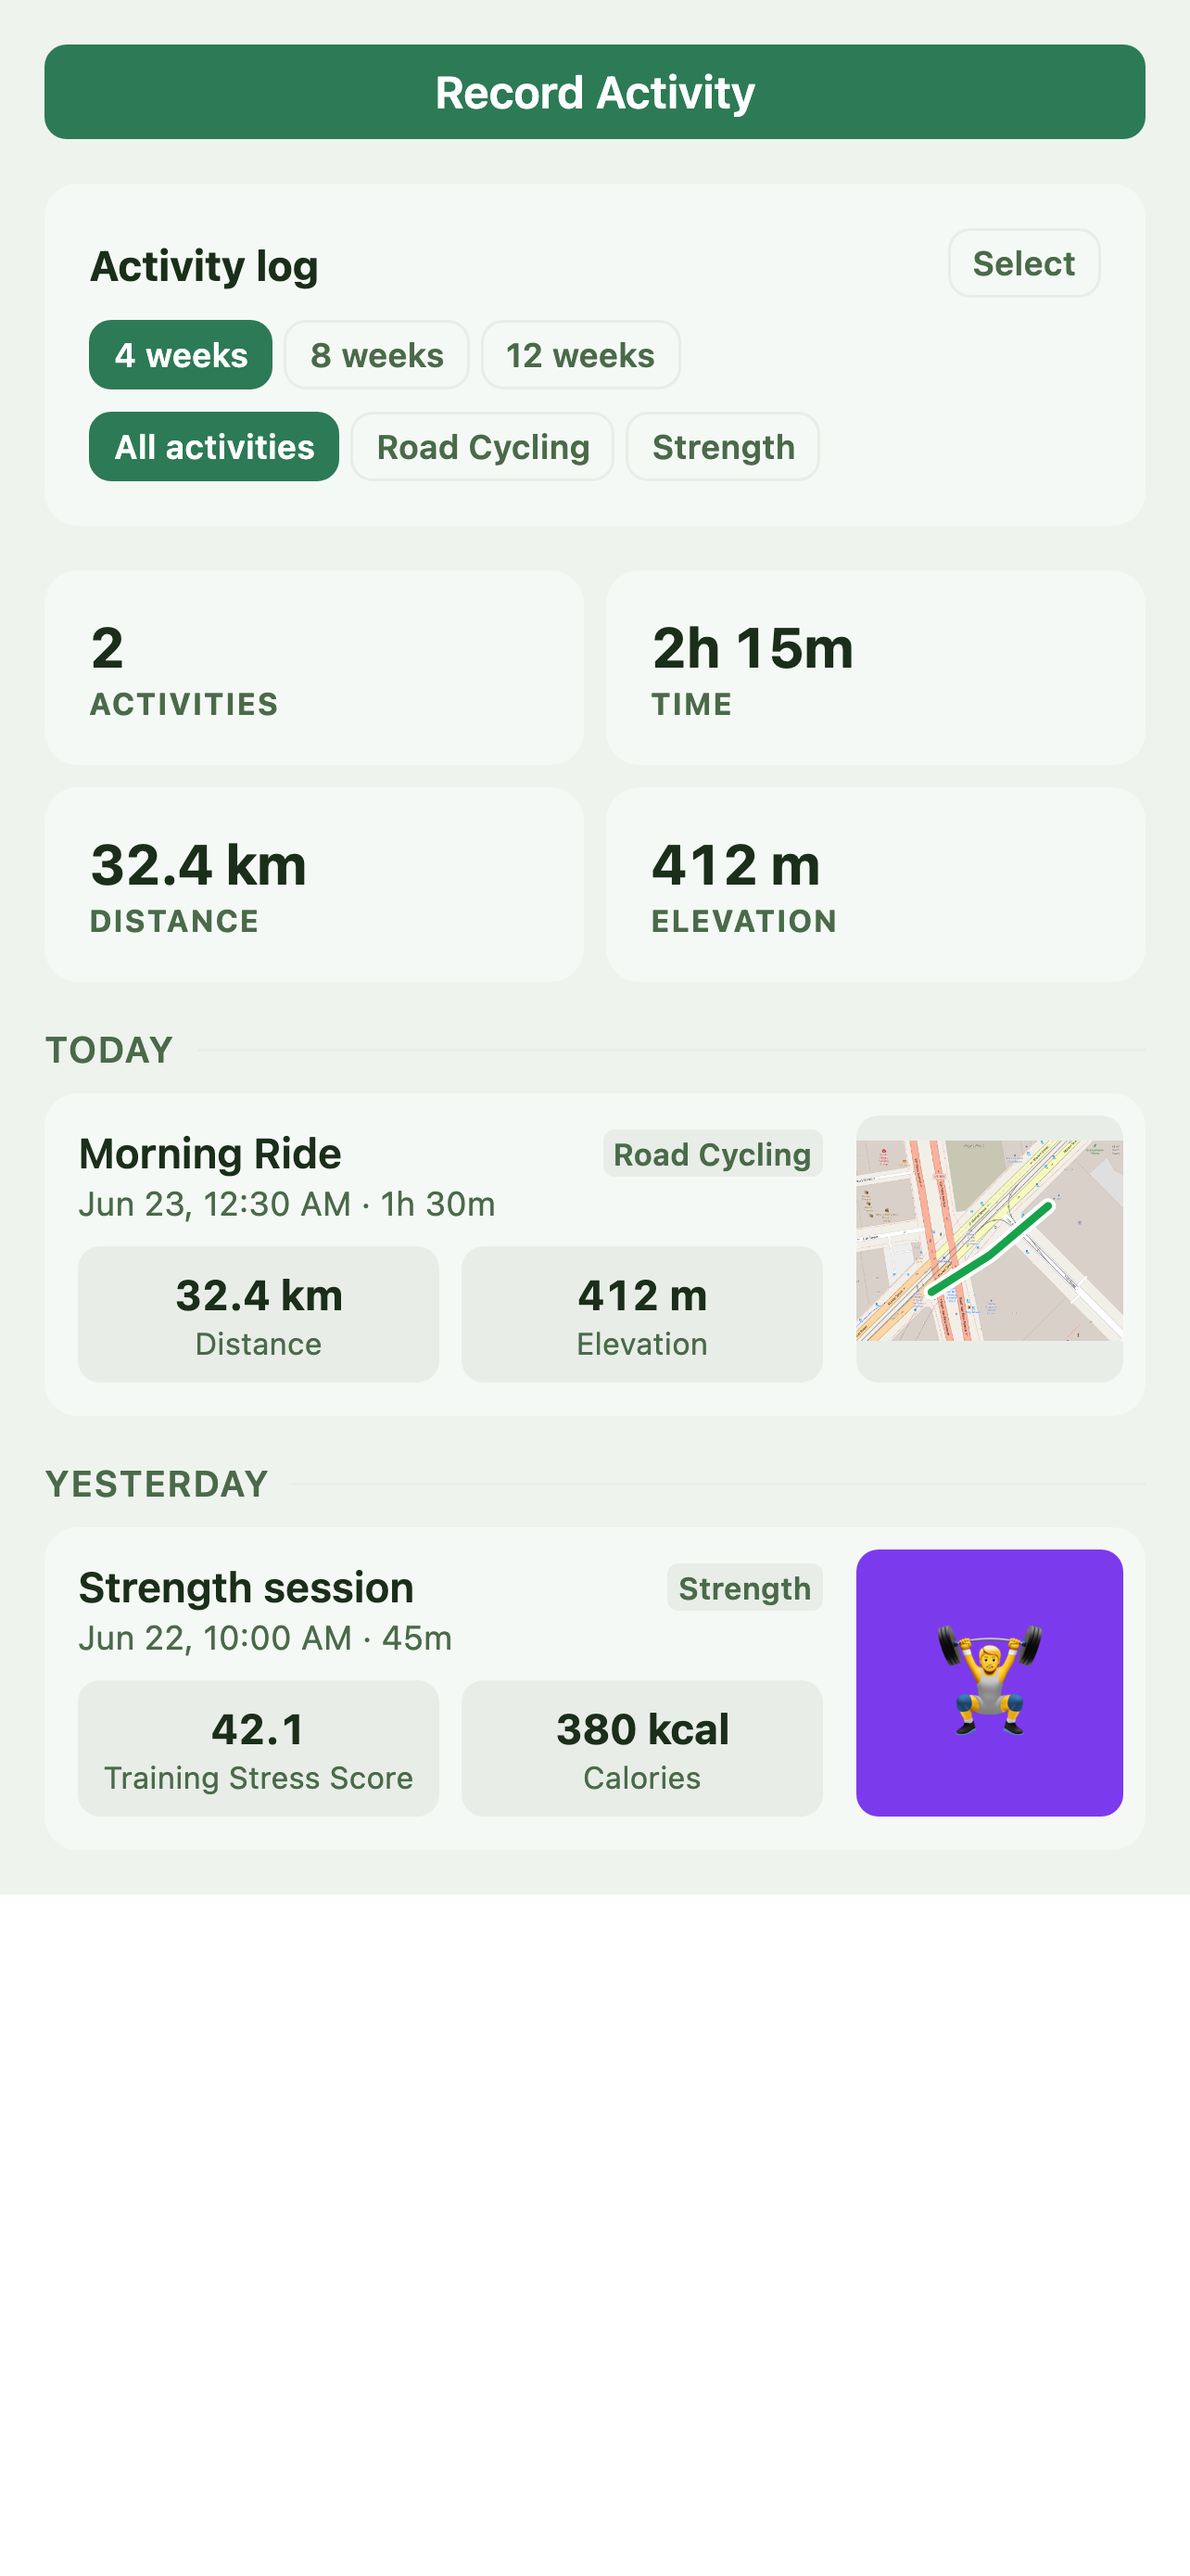
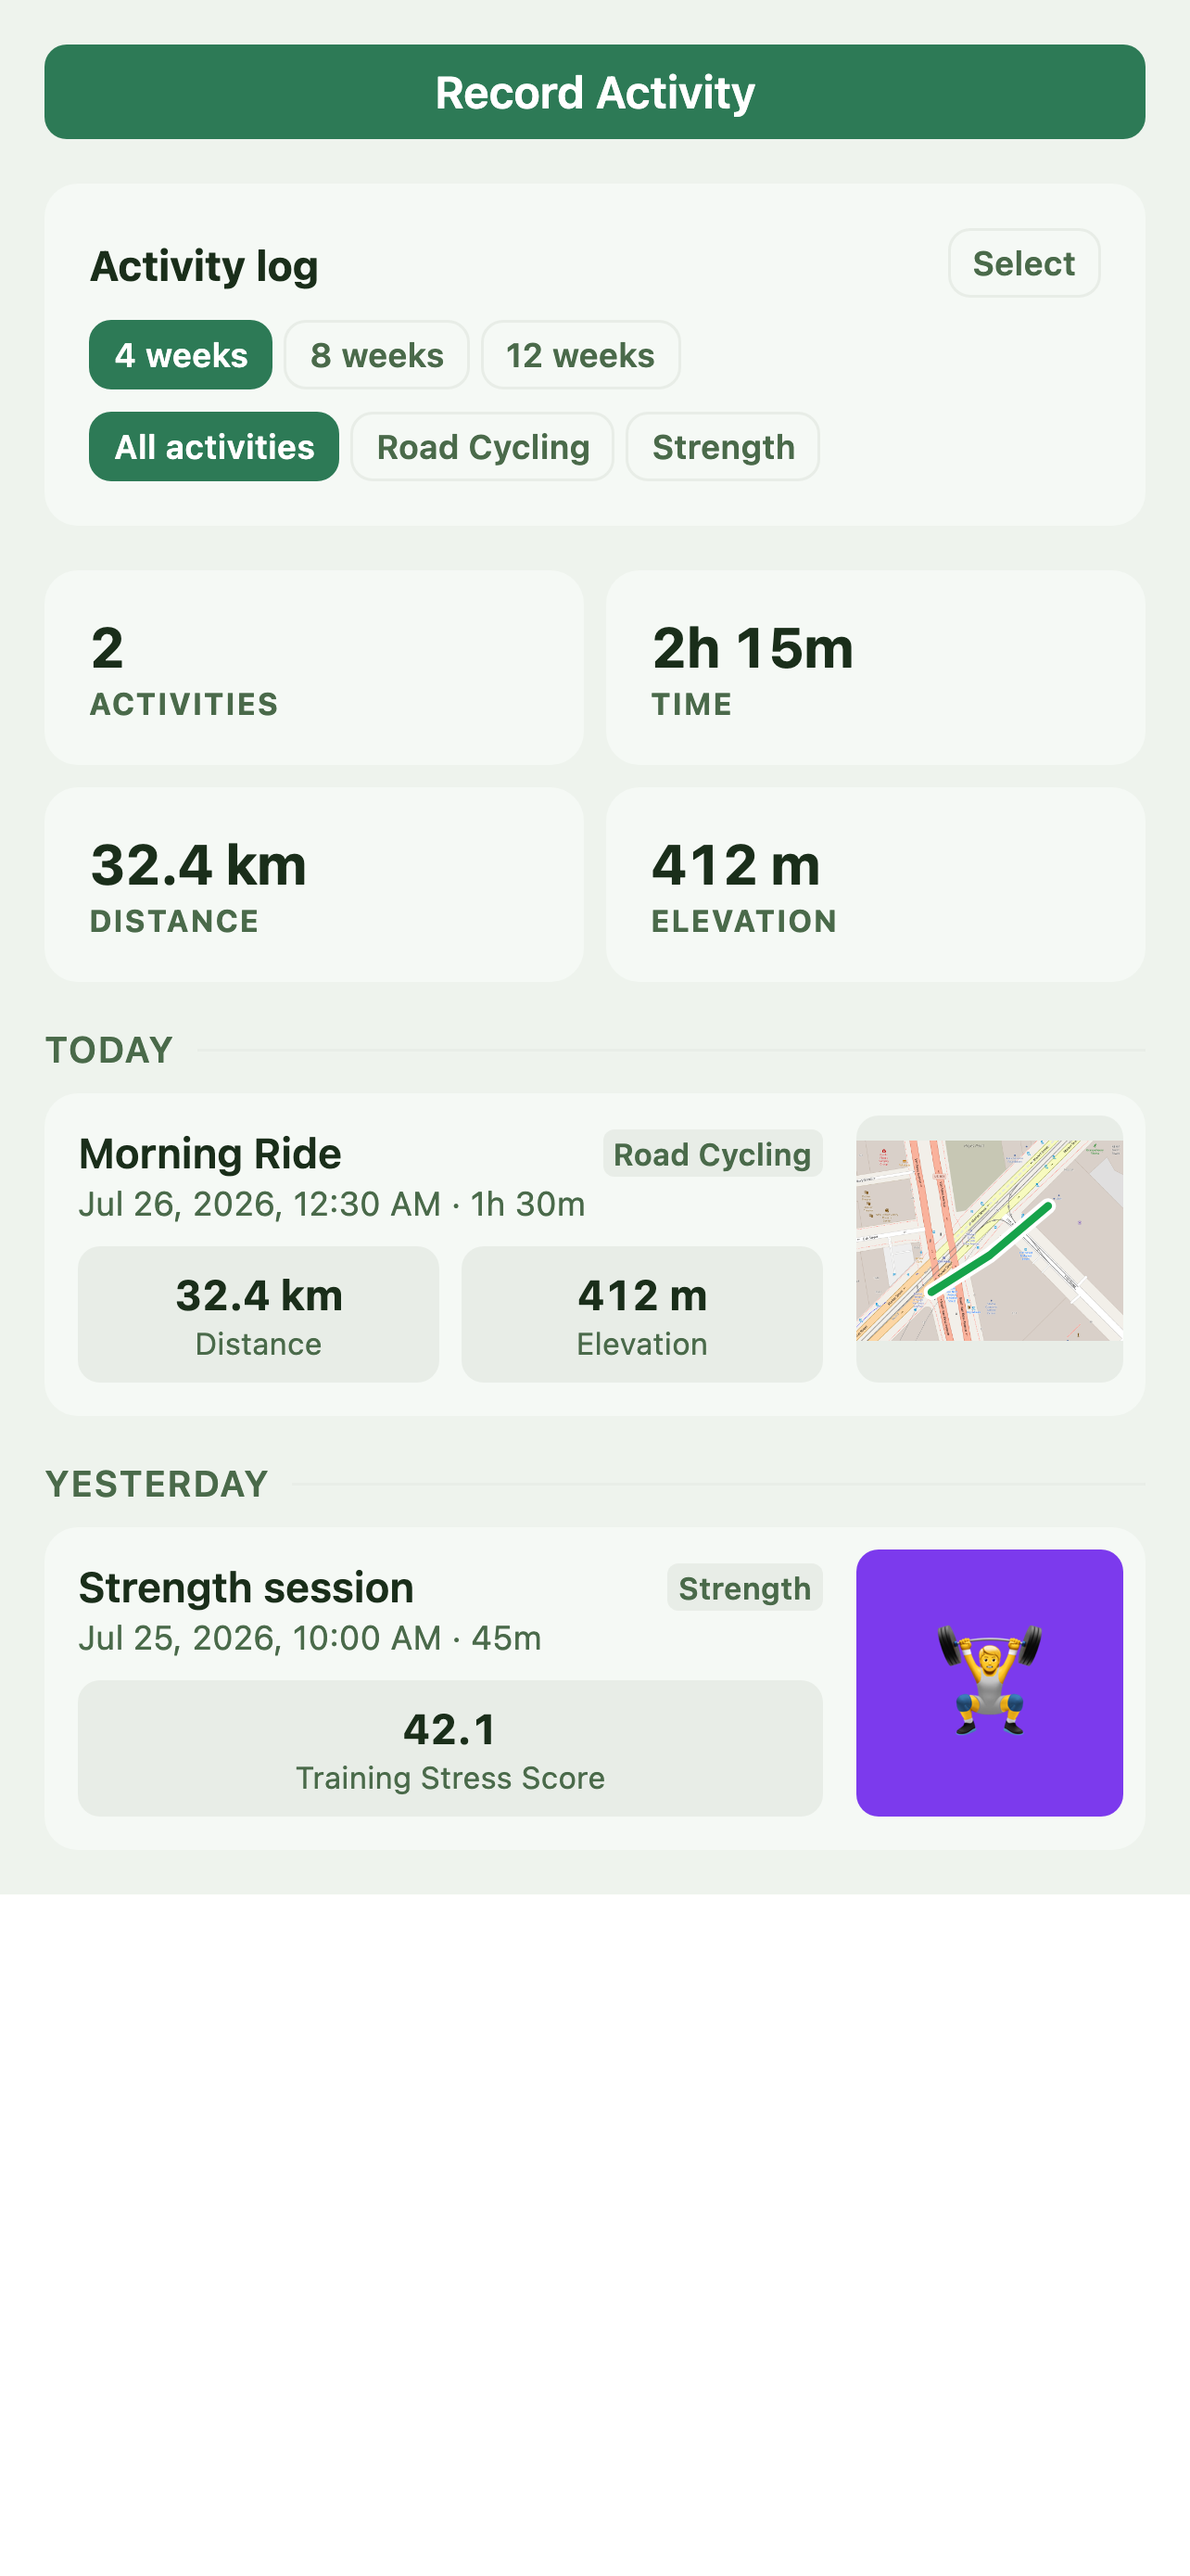
fix: remove calorie expenditure from marketing examples
Align landing, Storybook fixtures, and the App Store activity screenshot
with TSS-only activity cards so provider burn estimates are not shown.

diff --git a/packages/mobile/app/(tabs)/activities.stories.tsx b/packages/mobile/app/(tabs)/activities.stories.tsx
@@ -152,12 +152,8 @@ function createSeededProviders() {
               distanceMeters: 32400,
               elevationGainM: 412,
             },
-            calories: null,
             tss: 78.4,
-            stats: [
-              { label: "Training Stress Score", value: "78.4" },
-              { label: "Calories", value: "—" },
-            ],
+            stats: [{ label: "Training Stress Score", value: "78.4" }],
           },
         ],
       },
@@ -172,12 +168,8 @@ function createSeededProviders() {
             endedAt: `${yesterday}T17:45:00Z`,
             durationMin: 45,
             location: null,
-            calories: 380,
             tss: 42.1,
-            stats: [
-              { label: "Training Stress Score", value: "42.1" },
-              { label: "Calories", value: "380 kcal" },
-            ],
+            stats: [{ label: "Training Stress Score", value: "42.1" }],
           },
         ],
       },
@@ -192,6 +184,27 @@ function createSeededProviders() {
       totalDistanceMeters: 32400,
       totalElevationGainM: 412,
       activityTypes: ["road_cycling", "strength"],
+    },
+  );
+
+  queryClient.setQueryData(
+    [["processing", "status"], { input: { datasets: ["activity"] }, type: "query" }],
+    {
+      generatedAt: `${today}T12:00:00.000Z`,
+      scope: { providerId: null, datasets: ["activity"] },
+      overallStatus: "ready",
+      datasets: [
+        {
+          key: "activity",
+          label: "Activities",
+          status: "ready",
+          currentStage: null,
+          progressPercentage: null,
+          lastAdvancedAt: null,
+          lastReadyAt: `${today}T12:00:00.000Z`,
+        },
+      ],
+      operations: [],
     },
   );
 

diff --git a/packages/server/src/routers/calendar.test.ts b/packages/server/src/routers/calendar.test.ts
@@ -85,12 +85,8 @@ describe("calendarRouter", () => {
             endedAt: "2026-03-18 08:00:00+00",
             durationMin: 60,
             location: null,
-            calories: null,
             tss: null,
-            stats: [
-              { label: "Training Stress Score", value: "—" },
-              { label: "Calories", value: "—" },
-            ],
+            stats: [{ label: "Training Stress Score", value: "—" }],
           },
         ],
       },
@@ -150,12 +146,8 @@ describe("calendarRouter", () => {
               distanceMeters: 5000,
               elevationGainM: 120,
             },
-            calories: null,
             tss: null,
-            stats: [
-              { label: "Training Stress Score", value: "—" },
-              { label: "Calories", value: "—" },
-            ],
+            stats: [{ label: "Training Stress Score", value: "—" }],
           },
         ],
       },

diff --git a/packages/web/src/pages/LandingPage.tsx b/packages/web/src/pages/LandingPage.tsx
@@ -1,4 +1,4 @@
-import { formatCaloriesMeasurement, formatDateYmd } from "@dofek/format/format";
+import { formatDateYmd } from "@dofek/format/format";
 import { activityMetricColors } from "@dofek/scoring/colors";
 import { Link } from "@tanstack/react-router";
 import { trpc } from "../lib/trpc.ts";
@@ -404,7 +404,7 @@ function HealthMonitorPreview() {
     { label: "Resting Heart Rate", value: "-" },
     { label: "Blood Oxygen", value: "98%" },
     { label: "Steps", value: "7,640" },
-    { label: "Active Energy", value: formatCaloriesMeasurement(407).text },
+    { label: "Respiratory Rate", value: "14 breaths/min" },
     { label: "Skin Temperature", value: units.formatTemperature(36.2).text },
   ] as const;
 

diff --git a/packages/web/src/components/ActivityCardContent.stories.tsx b/packages/web/src/components/ActivityCardContent.stories.tsx
@@ -11,10 +11,7 @@ const strengthActivity: ActivityCardData = {
   startedAt: "2026-07-14T08:46:00-07:00",
   durationMin: 30,
   location: null,
-  stats: [
-    { label: "Training Stress Score", value: "8.5" },
-    { label: "Calories", value: "109 kcal" },
-  ],
+  stats: [{ label: "Training Stress Score", value: "8.5" }],
 };
 
 const mappedActivity: ActivityCardData = {
@@ -68,10 +65,7 @@ const mappedActivity: ActivityCardData = {
     distanceMeters: 8530,
     elevationGainM: 493,
   },
-  stats: [
-    { label: "Training Stress Score", value: "41" },
-    { label: "Calories", value: "612 kcal" },
-  ],
+  stats: [{ label: "Training Stress Score", value: "41" }],
 };
 
 const meta = {

diff --git a/packages/web/src/pages/LandingPage.test.tsx b/packages/web/src/pages/LandingPage.test.tsx
@@ -173,10 +173,10 @@ describe("LandingPage", () => {
     render(<LandingPage />);
 
     expect(screen.getByText("bpm average")).toBeTruthy();
-    expect(screen.getByText("407 kcal")).toBeTruthy();
+    expect(screen.getByText("Respiratory Rate")).toBeTruthy();
+    expect(screen.getByText("14 breaths/min")).toBeTruthy();
     expect(screen.getByText("36.2°C")).toBeTruthy();
     expect(screen.queryByText("beats/min average")).toBeNull();
-    expect(screen.queryByText("407 calories")).toBeNull();
     expect(screen.queryByText("36.2 Celsius")).toBeNull();
   });
 

diff --git a/packages/web/src/components/DashboardEvidenceOverview.stories.tsx b/packages/web/src/components/DashboardEvidenceOverview.stories.tsx
@@ -30,8 +30,8 @@ const meta = {
           <p className="mt-1 text-xl font-semibold text-foreground">7,640</p>
         </div>
         <div className="rounded-lg border border-border bg-white/70 p-3">
-          <p className="text-xs text-muted">Active Energy</p>
-          <p className="mt-1 text-xl font-semibold text-foreground">407 kcal</p>
+          <p className="text-xs text-muted">Respiratory Rate</p>
+          <p className="mt-1 text-xl font-semibold text-foreground">14 breaths/min</p>
         </div>
       </div>
     ),

diff --git a/packages/mobile/app/(tabs)/activities.test.tsx b/packages/mobile/app/(tabs)/activities.test.tsx
@@ -139,12 +139,8 @@ function activity(overrides: Record<string, unknown> = {}) {
     endedAt: "2026-03-18T08:00:00.000Z",
     durationMin: 60,
     location: null,
-    calories: 421.6,
     tss: 100,
-    stats: [
-      { label: "Training Stress Score", value: "100" },
-      { label: "Calories", value: "422 kcal" },
-    ],
+    stats: [{ label: "Training Stress Score", value: "100" }],
     ...overrides,
   };
 }

diff --git a/packages/web/src/pages/ActivitiesPage.test.tsx b/packages/web/src/pages/ActivitiesPage.test.tsx
@@ -150,12 +150,8 @@ function activity(overrides: Record<string, unknown> = {}) {
     endedAt: "2026-03-18T08:00:00.000Z",
     durationMin: 60,
     location: null,
-    calories: 421.6,
     tss: 100,
-    stats: [
-      { label: "Training Stress Score", value: "100" },
-      { label: "Calories", value: "422 kcal" },
-    ],
+    stats: [{ label: "Training Stress Score", value: "100" }],
     ...overrides,
   };
 }

diff --git a/packages/web/src/components/ActivityCardContent.test.tsx b/packages/web/src/components/ActivityCardContent.test.tsx
@@ -15,10 +15,7 @@ function activity(overrides: Partial<ActivityCardData> = {}): ActivityCardData {
     startedAt: "2026-07-14T08:46:00.000Z",
     durationMin: 30,
     location: null,
-    stats: [
-      { label: "Training Stress Score", value: "8.5" },
-      { label: "Calories", value: "109 kcal" },
-    ],
+    stats: [{ label: "Training Stress Score", value: "8.5" }],
     ...overrides,
   };
 }

diff --git a/docs/superpowers/plans/2026-07-26-remove-expenditure-examples.md b/docs/superpowers/plans/2026-07-26-remove-expenditure-examples.md
@@ -1,0 +1,93 @@
+# Remove calorie-expenditure examples TDD Plan
+
+> **For agentic workers:** REQUIRED SUB-SKILL: Use superpowers:test-driven-development before implementation. If executing this plan task-by-task, also use superpowers:executing-plans or superpowers:subagent-driven-development as appropriate. Steps use checkbox (`- [ ]`) syntax for tracking.
+
+**Goal:** Remove provider-estimated workout calories and active-energy values from marketing, Storybook fixtures, review/test fixtures, and the affected App Store activity screenshot, with web/mobile parity.
+
+**Behavior:** User-visible examples show observational metrics (for example Respiratory Rate) and Training Stress Score only. Nutrition intake and weight-inferred energy concepts remain unchanged.
+
+**Scope:**
+- Included: landing-page health monitor preview, web/mobile activity Storybook and test fixtures, DashboardEvidenceOverview story mock, App Store `04-activities-map.png`, roadmap checkbox for this item.
+- Non-goals: regenerating every App Store screenshot asset, subscription pricing copy, product analytics events, medication-dose docs, Xcode workspace docs, correlation statistics audit.
+
+**Docs:** [`docs/roadmap.md`](../../roadmap.md) Trust and Measurement release gate; AGENTS.md “Never use provider-estimated calorie expenditure”; server `formatActivityStats` already returns Training Stress Score only.
+
+---
+
+## Current Evidence
+
+- Production activity cards already serve Training Stress Score only (`packages/server/src/repositories/activities-calendar-repository.ts` `formatActivityStats`).
+- Landing page still markets Active Energy as `407 kcal` (`packages/web/src/pages/LandingPage.tsx`).
+- Web ActivityCardContent stories and mobile activities Storybook still include workout calorie stats (`380 kcal` / `109 kcal` / `612 kcal`).
+- App Store screenshot `04-activities-map.png` shows Strength session Calories `380 kcal`.
+- Nutrition intake kcal and Adaptive TDEE remain valid and must be preserved.
+
+## Test Strategy
+
+- Unit: landing-page test expects Respiratory Rate instead of active-energy kcal.
+- UI/mobile/web parity: activity fixtures on both platforms match server stats (TSS only).
+- Visual: regenerate and inspect `04-activities-map.png` so Strength shows TSS without Calories.
+
+## File Structure
+
+- Modify: `packages/web/src/pages/LandingPage.test.tsx` — failing test first
+- Modify: `packages/web/src/pages/LandingPage.tsx` — replace Active Energy
+- Modify: `packages/web/src/components/DashboardEvidenceOverview.stories.tsx`
+- Modify: `packages/web/src/components/ActivityCardContent.stories.tsx`
+- Modify: `packages/web/src/components/ActivityCardContent.test.tsx`
+- Modify: `packages/web/src/pages/ActivitiesPage.test.tsx`
+- Modify: `packages/mobile/app/(tabs)/activities.stories.tsx`
+- Modify: `packages/mobile/app/(tabs)/activities.test.tsx`
+- Modify: `packages/server/src/routers/calendar.test.ts` — drop stale Calories fixture stats
+- Modify: `packages/mobile/app-store/screenshots/04-activities-map.png` (+ manifest if rewritten)
+- Modify: `docs/roadmap.md` — check off this gate item when done
+
+## Tasks
+
+### Task 1: Add Failing Landing-Page Test
+
+**Files:**
+- Modify: `packages/web/src/pages/LandingPage.test.tsx`
+
+- [x] Change the unit-formatting test to expect Respiratory Rate `14 breaths/min` instead of `407 kcal`.
+- [x] Run `pnpm exec vitest run packages/web/src/pages/LandingPage.test.tsx`.
+- [x] Confirm the test fails because Active Energy is still rendered.
+
+### Task 2: Replace Landing-Page Active Energy
+
+**Files:**
+- Modify: `packages/web/src/pages/LandingPage.tsx`
+
+- [x] Replace Active Energy with Respiratory Rate `14 breaths/min`.
+- [x] Drop unused `formatCaloriesMeasurement` import if no longer referenced.
+- [x] Re-run the landing-page test and confirm it passes.
+
+### Task 3: Align Web/Mobile Activity Fixtures
+
+**Files:**
+- Modify web ActivityCardContent stories/tests and ActivitiesPage test fixtures
+- Modify mobile activities stories/tests
+- Modify calendar router test mocks that still include Calories stats
+- Modify DashboardEvidenceOverview story health-monitor mock
+
+- [x] Remove workout Calories stats and leftover `calories` activity fields from fixtures.
+- [x] Keep Training Stress Score as the activity example metric.
+- [x] Replace Active Energy in DashboardEvidenceOverview story with Respiratory Rate.
+- [x] Run focused web and mobile activity tests.
+
+### Task 4: Regenerate Activity App Store Screenshot
+
+**Files:**
+- Modify: `packages/mobile/app-store/screenshots/04-activities-map.png`
+
+- [x] Run `pnpm --filter dofek-mobile app-store:assets` (or build + screenshots).
+- [x] Visually verify Strength session no longer shows `380 kcal`.
+- [x] Re-audit user-visible examples for expenditure kcal while preserving nutrition/TDEE.
+- [x] Align `@storybook/react-native-web-vite` to `10.4.0` so screenshot capture can render.
+- [x] Seed ready `processing.status` in activities Storybook so App Store capture has no fetch-error banner.
+
+### Task 5: Docs, Checks, Ship
+
+- [x] Check off the roadmap calorie-expenditure examples item.
+- [ ] Run `pnpm lint`, focused unit/mobile tests, and package typechecks.
+- [ ] Commit, push, open PR against `main`, monitor CI and review feedback.

diff --git a/docs/roadmap.md b/docs/roadmap.md
@@ -20,7 +20,7 @@ New work should strengthen this loop. More providers, scores, charts, and standa
 
 Resolve public-facing trust problems and add product measurement before launching the next flagship feature.
 
-- [ ] Remove provider-estimated workout calories and active-energy values from marketing, Storybook fixtures, review data, screenshots, and other user-visible examples. Nutrition intake and expenditure inferred from observed body-weight change remain valid product concepts.
+- [x] Remove provider-estimated workout calories and active-energy values from marketing, Storybook fixtures, review data, screenshots, and other user-visible examples. Nutrition intake and expenditure inferred from observed body-weight change remain valid product concepts. See [`2026-07-26-remove-expenditure-examples.md`](superpowers/plans/2026-07-26-remove-expenditure-examples.md).
 - [ ] Regenerate the iOS App Store screenshots with internally consistent seeded data, correct layout coverage, and no blank or mostly-black assets; see [`app-store/screenshots`](../packages/mobile/app-store/screenshots).
 - [ ] Audit statistical fixtures so sample size, coefficients, significance, confidence language, and charts agree. Insufficient datasets must not imply that a relationship was measured; see [`2026-07-20-correlation-insufficient-statistics.md`](superpowers/plans/2026-07-20-correlation-insufficient-statistics.md).
 - [ ] Show the actual subscription price, billing period, trial or limited-access behavior, and cancellation terms on the landing page before signup; see [`LandingPage.tsx`](../packages/web/src/pages/LandingPage.tsx).
